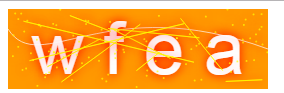
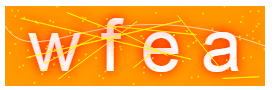
4
4

diff --git a/index.html b/index.html
@@ -17,7 +17,7 @@
    	numberSize:4,
    	textStyle:"fillText",
    	textColor:"#ffffff",
-   	fillColor:"#ff9900",
+   	fillColor:"pink",
    	gradient:false,
    	shadowColor:"red",
    	mix:true,
